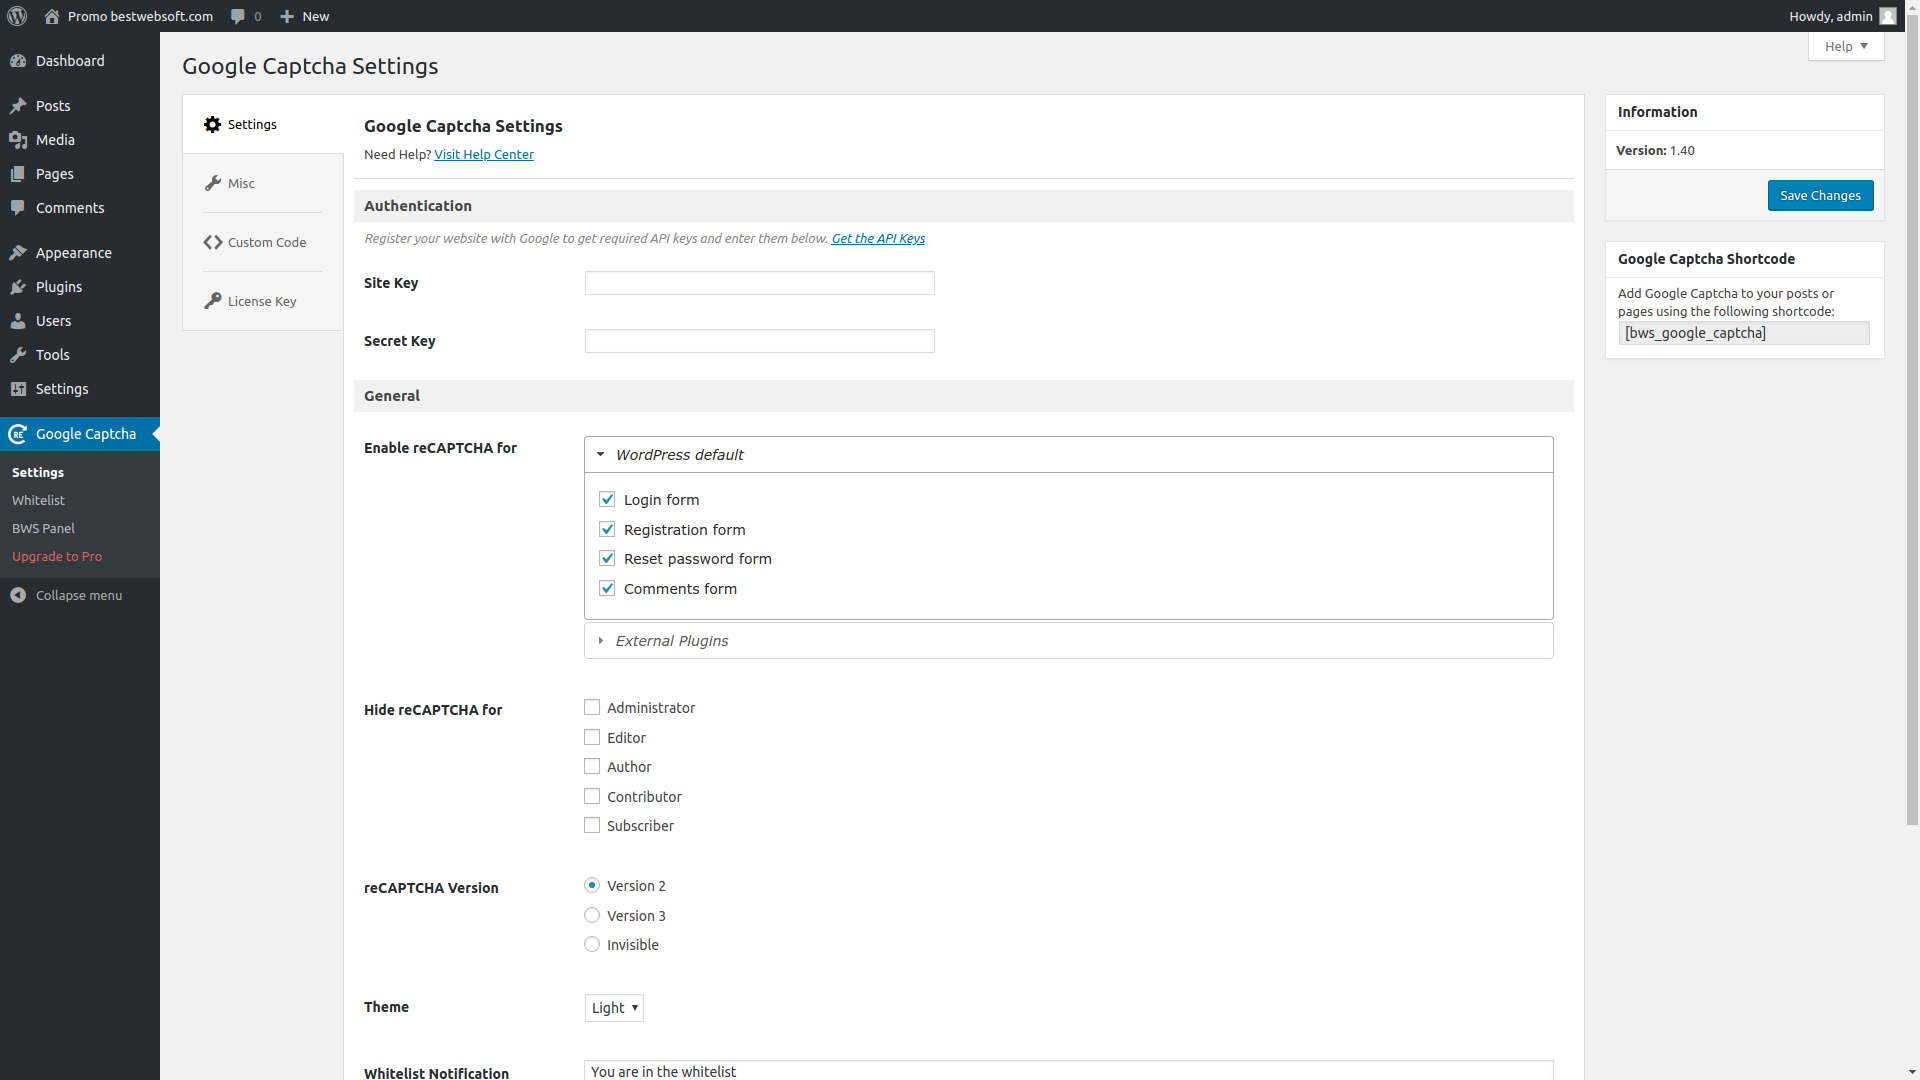
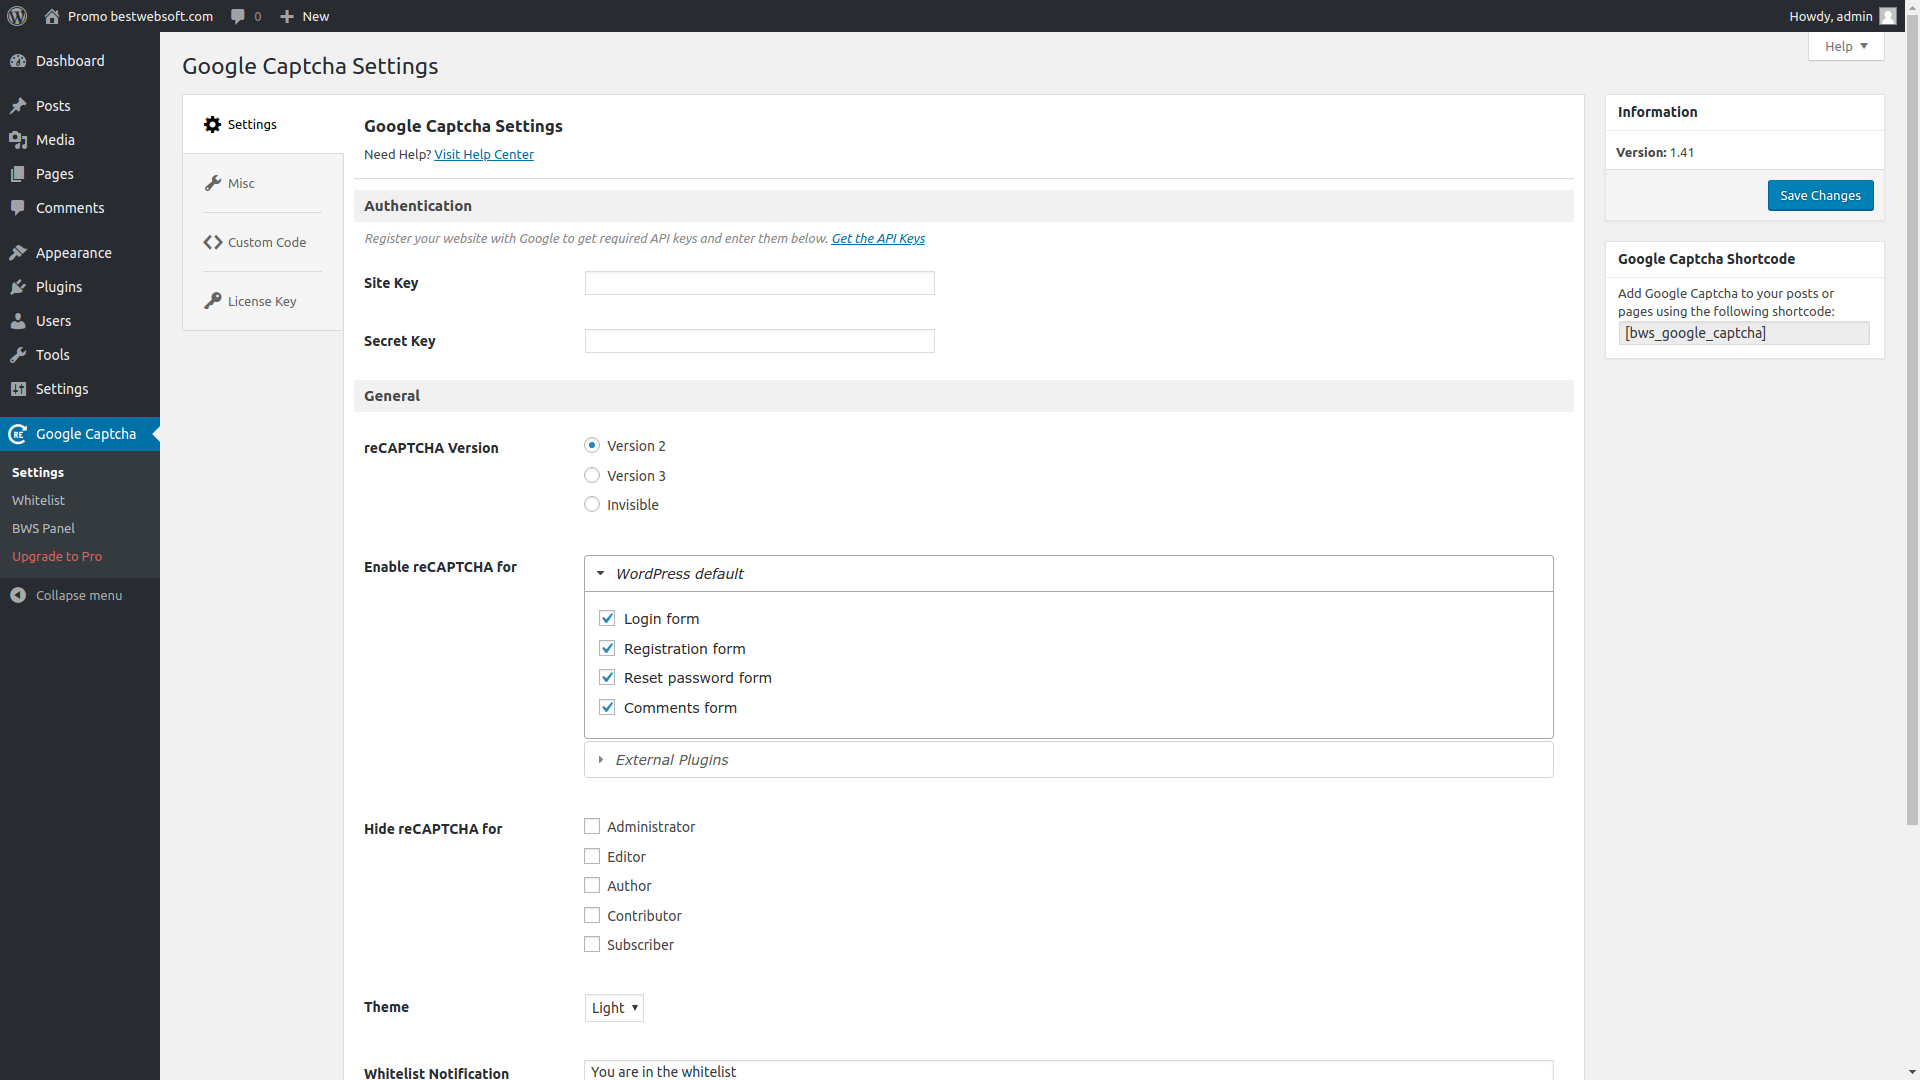
updated plugin `Google Captcha (reCAPTCHA) by BestWebSoft` version 1.41

diff --git a/wp-content/plugins/google-captcha/google-captcha.php b/wp-content/plugins/google-captcha/google-captcha.php
@@ -6,7 +6,7 @@ Description: Protect WordPress website forms from spam entries with Google Captc
 Author: BestWebSoft
 Text Domain: google-captcha
 Domain Path: /languages
-Version: 1.40
+Version: 1.41
 Author URI: https://bestwebsoft.com/
 License: GPLv3 or later
 */
@@ -65,7 +65,7 @@ if ( ! function_exists( 'gglcptch_plugins_loaded' ) ) {
 
 if ( ! function_exists( 'gglcptch_init' ) ) {
 	function gglcptch_init() {
-		global $gglcptch_plugin_info, $gglcptch_options, $gglcptch_ip_in_whitelist;;
+		global $gglcptch_plugin_info, $gglcptch_options;
 
 		require_once( dirname( __FILE__ ) . '/bws_menu/bws_include.php' );
 		bws_include_init( plugin_basename( __FILE__ ) );
@@ -84,10 +84,6 @@ if ( ! function_exists( 'gglcptch_init' ) ) {
 		/* Call register settings function */
 		if ( ! $is_admin || ( isset( $_GET['page'] ) && 'google-captcha.php' == $_GET['page'] ) ) {
 			register_gglcptch_settings();
-		}
-
-		if ( ! isset( $gglcptch_ip_in_whitelist ) ) {
-			$gglcptch_ip_in_whitelist = gglcptch_whitelisted_ip();
 		}
 
 		/* Add hooks */
@@ -353,7 +349,7 @@ if ( ! function_exists( 'gglcptch_get_default_options' ) ) {
 			'whitelist_message'			=> __( 'You are in the whitelist', 'google-captcha' ),
 			'public_key'				=> '',
 			'private_key'				=> '',
-			'login_form'				=> 1,
+			'login_form'				=> 0,
 			'registration_form'			=> 0,
 			'reset_pwd_form'			=> 1,
 			'comments_form'				=> 0,
@@ -510,17 +506,13 @@ if ( ! function_exists( 'gglcptch_is_hidden_for_role' ) ) {
 /* Display google captcha via shortcode */
 if ( ! function_exists( 'gglcptch_display' ) ) {
 	function gglcptch_display( $content = false ) {
-		global $gglcptch_options, $gglcptch_count, $gglcptch_ip_in_whitelist, $gglcptch_plugin_info;
+		global $gglcptch_options, $gglcptch_count, $gglcptch_plugin_info;
 
 		if ( empty( $gglcptch_options ) ) {
 			register_gglcptch_settings();
 		}
 
-		if ( ! isset( $gglcptch_ip_in_whitelist ) ) {
-			$gglcptch_ip_in_whitelist = gglcptch_whitelisted_ip();
-		}
-
-		if ( ! $gglcptch_ip_in_whitelist ) {
+		if ( ! gglcptch_whitelisted_ip() || ( isset( $_GET['action'] ) && 'gglcptch-test-keys' == $_GET['action'] ) ) {
 
 			if ( ! $gglcptch_count ) {
 				$gglcptch_count = 1;
@@ -618,7 +610,7 @@ if ( ! function_exists( 'gglcptch_display' ) ) {
 				gglcptch_add_styles();
 			}
 		} elseif ( ! empty( $gglcptch_options['whitelist_message'] ) ) {
-			$content .= '<label class="gglcptch_whitelist_message">' . $gglcptch_options['whitelist_message'] . '</label>';
+			$content .= '<label class="gglcptch_whitelist_message" style="display: block;">' . $gglcptch_options['whitelist_message'] . '</label>';
 		}
 
 		return $content;
@@ -673,6 +665,14 @@ if ( ! function_exists( 'gglcptch_get_response' ) ) {
 if ( ! function_exists( 'gglcptch_check' ) ) {
 	function gglcptch_check( $form = 'general', $debug = false ) {
 		global $gglcptch_options;
+
+        if ( gglcptch_whitelisted_ip() && 'gglcptch_test' != $form ) {
+            $result = array(
+                    'response' => true,
+                    'reason' => ''
+                );
+            return $result;
+        }
 
 		if ( empty( $gglcptch_options ) ) {
 			register_gglcptch_settings();
@@ -1021,7 +1021,7 @@ if ( ! function_exists( 'gglcptch_is_woocommerce_page' ) ) {
 
 if ( ! function_exists( 'gglcptch_test_keys' ) ) {
 	function gglcptch_test_keys() {
-		global $gglcptch_ip_in_whitelist, $gglcptch_options;
+		global $gglcptch_options;
 		if ( isset( $_REQUEST['_wpnonce'] ) && wp_verify_nonce( $_REQUEST['_wpnonce'] , $_REQUEST['action'] ) ) {
 			header( 'Content-Type: text/html' );
 			register_gglcptch_settings(); ?>
@@ -1032,8 +1032,7 @@ if ( ! function_exists( 'gglcptch_test_keys' ) ) {
 					_e( 'Please complete the captcha and submit "Test verification"', 'google-captcha' );
 				} ?>
 			</p>
-			<?php $gglcptch_ip_in_whitelist = false;
-			echo gglcptch_display(); ?>
+			<?php echo gglcptch_display(); ?>
 			<p>
 				<input type="hidden" name="gglcptch_test_keys_verification-nonce" value="<?php echo wp_create_nonce( 'gglcptch_test_keys_verification' ); ?>" />
 				<button id="gglcptch_test_keys_verification" name="action" class="button-primary" value="gglcptch_test_keys_verification" disabled="disabled"><?php _e( 'Test verification', 'google-captcha' ); ?></button>
@@ -1046,7 +1045,7 @@ if ( ! function_exists( 'gglcptch_test_keys' ) ) {
 if ( ! function_exists( 'gglcptch_test_keys_verification' ) ) {
 	function gglcptch_test_keys_verification() {
 		if ( isset( $_REQUEST['_wpnonce'] ) && wp_verify_nonce( $_REQUEST['_wpnonce'] , $_REQUEST['action'] ) ) {
-			$result = gglcptch_check( 'general', true );
+			$result = gglcptch_check( 'gglcptch_test', true );
 
 			if ( ! $result['response'] ) {
 				if ( isset( $result['reason'] ) ) {

diff --git a/wp-content/plugins/google-captcha/includes/forms.php b/wp-content/plugins/google-captcha/includes/forms.php
@@ -158,7 +158,7 @@ if ( ! function_exists( 'gglcptch_get_form_notice' ) ) {
 
 if ( ! function_exists( 'gglcptch_add_actions' ) ) {
 	function gglcptch_add_actions() {
-		global $gglcptch_options, $wp_version, $gglcptch_ip_in_whitelist;
+		global $gglcptch_options, $wp_version;
 
 		$is_user_logged_in = is_user_logged_in();
 
@@ -166,32 +166,23 @@ if ( ! function_exists( 'gglcptch_add_actions' ) ) {
 
 			if ( gglcptch_is_recaptcha_required( 'login_form', $is_user_logged_in ) ) {
 				add_action( 'login_form', 'gglcptch_login_display' );
-				if ( ! $gglcptch_ip_in_whitelist ) {
-					add_action( 'authenticate', 'gglcptch_login_check', 21, 1 );
-				}
+				add_action( 'authenticate', 'gglcptch_login_check', 21, 1 );
 			}
 
 			if ( gglcptch_is_recaptcha_required( 'registration_form', $is_user_logged_in ) ) {
 				if ( ! is_multisite() ) {
 					add_action( 'register_form', 'gglcptch_login_display', 99 );
-					if ( ! $gglcptch_ip_in_whitelist ) {
-						add_action( 'registration_errors', 'gglcptch_register_check', 10, 1 );
-					}
+					add_action( 'registration_errors', 'gglcptch_register_check', 10, 1 );
 				} else {
 					add_action( 'signup_extra_fields', 'gglcptch_signup_display' );
 					add_action( 'signup_blogform', 'gglcptch_signup_display' );
-					if ( ! $gglcptch_ip_in_whitelist ) {
-						add_filter( 'wpmu_validate_user_signup', 'gglcptch_signup_check', 10, 3 );
-					}
+					add_filter( 'wpmu_validate_user_signup', 'gglcptch_signup_check', 10, 3 );
 				}
 			}
 
 			if ( gglcptch_is_recaptcha_required( 'reset_pwd_form', $is_user_logged_in ) ) {
 				add_action( 'lostpassword_form', 'gglcptch_login_display' );
-
-				if ( ! $gglcptch_ip_in_whitelist ) {
-					add_action( 'allow_password_reset', 'gglcptch_lostpassword_check' );
-				}
+				add_action( 'allow_password_reset', 'gglcptch_lostpassword_check' );
 			}
 		}
 
@@ -199,17 +190,13 @@ if ( ! function_exists( 'gglcptch_add_actions' ) ) {
 		if ( gglcptch_is_recaptcha_required( 'comments_form', $is_user_logged_in ) ) {
 			add_action( 'comment_form_after_fields', 'gglcptch_commentform_display' );
 			add_action( 'comment_form_logged_in_after', 'gglcptch_commentform_display' );
-			if ( ! $gglcptch_ip_in_whitelist ) {
-				add_action( 'pre_comment_on_post', 'gglcptch_commentform_check' );
-			}
+			add_action( 'pre_comment_on_post', 'gglcptch_commentform_check' );
 		}
 
 		/* Add Google Captcha to Contact Form by BestWebSoft */
 		if ( gglcptch_is_recaptcha_required( 'contact_form', $is_user_logged_in ) ) {
 			add_filter( 'cntctfrm_display_captcha', 'gglcptch_display', 10, 1 );
-			if ( ! $gglcptch_ip_in_whitelist ) {
-				add_filter( 'cntctfrm_check_form', 'gglcptch_contact_form_check' );
-			}
+			add_filter( 'cntctfrm_check_form', 'gglcptch_contact_form_check' );
 		}
 
 		/* Add Google Captcha to Testimonials by BestWebSoft */

diff --git a/wp-content/plugins/google-captcha/includes/class-gglcptch-settings-tabs.php b/wp-content/plugins/google-captcha/includes/class-gglcptch-settings-tabs.php
@@ -173,6 +173,19 @@ if ( ! class_exists( 'Gglcptch_Settings_Tabs' ) ) {
 			</table>
 			<div class="bws_tab_sub_label"><?php _e( 'General', 'google-captcha' ); ?></div>
 			<table class="form-table">
+                <tr valign="top">
+                    <th scope="row"><?php _e( 'reCAPTCHA Version', 'google-captcha' ); ?></th>
+                    <td>
+                        <fieldset>
+                            <?php foreach ( $this->versions as $version => $version_name ) { ?>
+                                <label>
+                                    <input type="radio" name="gglcptch_recaptcha_version" value="<?php echo $version; ?>" <?php checked( $version, $this->options['recaptcha_version'] ); ?>> <?php echo $version_name; ?>
+                                </label>
+                                <br/>
+                            <?php } ?>
+                        </fieldset>
+                    </td>
+                </tr>
 				<tr valign="top">
 					<th scope="row"><?php _e( 'Enable reCAPTCHA for', 'google-captcha' ); ?></th>
 					<td>
@@ -243,19 +256,6 @@ if ( ! class_exists( 'Gglcptch_Settings_Tabs' ) ) {
 									);
 								}
 							} ?>
-						</fieldset>
-					</td>
-				</tr>
-				<tr valign="top">
-					<th scope="row"><?php _e( 'reCAPTCHA Version', 'google-captcha' ); ?></th>
-					<td>
-						<fieldset>
-							<?php foreach ( $this->versions as $version => $version_name ) { ?>
-								<label>
-									<input type="radio" name="gglcptch_recaptcha_version" value="<?php echo $version; ?>" <?php checked( $version, $this->options['recaptcha_version'] ); ?>> <?php echo $version_name; ?>
-								</label>
-								<br/>
-							<?php } ?>
 						</fieldset>
 					</td>
 				</tr>

diff --git a/wp-content/plugins/google-captcha/includes/pro_banners.php b/wp-content/plugins/google-captcha/includes/pro_banners.php
@@ -65,7 +65,8 @@ if ( ! function_exists( 'gglcptch_supported_plugins_banner' ) ) {
 			'wpforo_login_form'			=> array( 'form_name' => __( 'wpForo Login form', 'google-captcha' ) ),
 			'wpforo_register_form'		=> array( 'form_name' => __( 'wpForo Registration form', 'google-captcha' ) ),
 			'wpforo_new_topic_form'		=> array( 'form_name' => __( 'wpForo New Topic form', 'google-captcha' ) ),
-			'wpforo_reply_form'			=> array( 'form_name' => __( 'wpForo Reply form', 'google-captcha') )
+			'wpforo_reply_form'			=> array( 'form_name' => __( 'wpForo Reply form', 'google-captcha') ),
+            'ninja_form'				=> array( 'form_name' => __( 'Ninja Forms', 'google-captcha' ) )
 		);
 		$pro_sections = array(
 			'external' => array(
@@ -76,6 +77,7 @@ if ( ! function_exists( 'gglcptch_supported_plugins_banner' ) ) {
 					'jetpack_contact_form',
 					'sbscrbr',
 					'mailchimp',
+                    'ninja_form',
 				)
 			),
 			'bbpress' => array(
